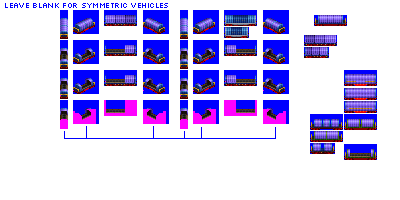
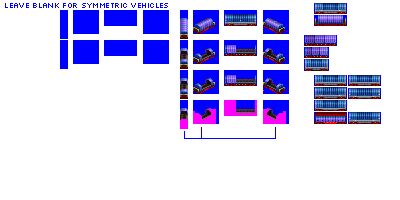
Change: WIP on sliding roof hi-cube cars

diff --git a/src/train.py b/src/train.py
@@ -4443,7 +4443,7 @@ class FlatCarSlidingRoofConsistHiCube(FlatCarConsistBase):
     def __init__(self, **kwargs):
         self.base_id = "sliding_roof_hi_cube_car"
         super().__init__(**kwargs)
-        self.default_cargos = polar_fox.constants.default_cargos["flat_sliding_roof"]
+        self.default_cargos = polar_fox.constants.default_cargos["box_vehicle_parts"] # minor abuse of existing list
         self.buy_cost_adjustment_factor = 1.2
         self._intro_year_days_offset = (
             global_constants.intro_month_offsets_by_role_group["non_core_wagons"]
@@ -4469,6 +4469,9 @@ class FlatCarSlidingRoofConsistHiCube(FlatCarConsistBase):
                     "RANDOM_FROM_CONSIST_LIVERIES_7"
                 ],
                 global_constants.freight_wagon_liveries[
+                    "RANDOM_FROM_CONSIST_LIVERIES_8"
+                ],
+                global_constants.freight_wagon_liveries[
                     "COMPANY_COLOUR_USE_WEATHERING"
                 ],
                 global_constants.freight_wagon_liveries[
@@ -4476,6 +4479,10 @@ class FlatCarSlidingRoofConsistHiCube(FlatCarConsistBase):
                 ],
                 global_constants.freight_wagon_liveries["FREIGHT_RUBY"],
                 global_constants.freight_wagon_liveries["FREIGHT_BAUXITE"],
+                global_constants.freight_wagon_liveries["FREIGHT_PEWTER"],
+                global_constants.freight_wagon_liveries["FREIGHT_NIGHTSHADE"],
+                global_constants.freight_wagon_liveries["FREIGHT_OIL_BLACK"],
+                global_constants.freight_wagon_liveries["FREIGHT_TEAL"],
             ],
             piece="flat",
             has_cover=True,

diff --git a/src/vehicles/sliding_roof_hi_cube_cars.py b/src/vehicles/sliding_roof_hi_cube_cars.py
@@ -8,7 +8,7 @@ def main():
 
     consist = FlatCarSlidingRoofConsistHiCube(
         roster_id="pony",
-        base_numeric_id=15120,
+        base_numeric_id=12050,
         gen=5,
         subtype="B",
         sprites_complete=False,
@@ -18,10 +18,10 @@ def main():
 
     consist = FlatCarSlidingRoofConsistHiCube(
         roster_id="pony",
-        base_numeric_id=15920,
+        base_numeric_id=18520,
         gen=5,
         subtype="C",
-        sprites_complete=15330,
+        sprites_complete=False,
     )
 
     consist.add_unit(type=FreightCar, chassis="4_axle_filled_32px")
